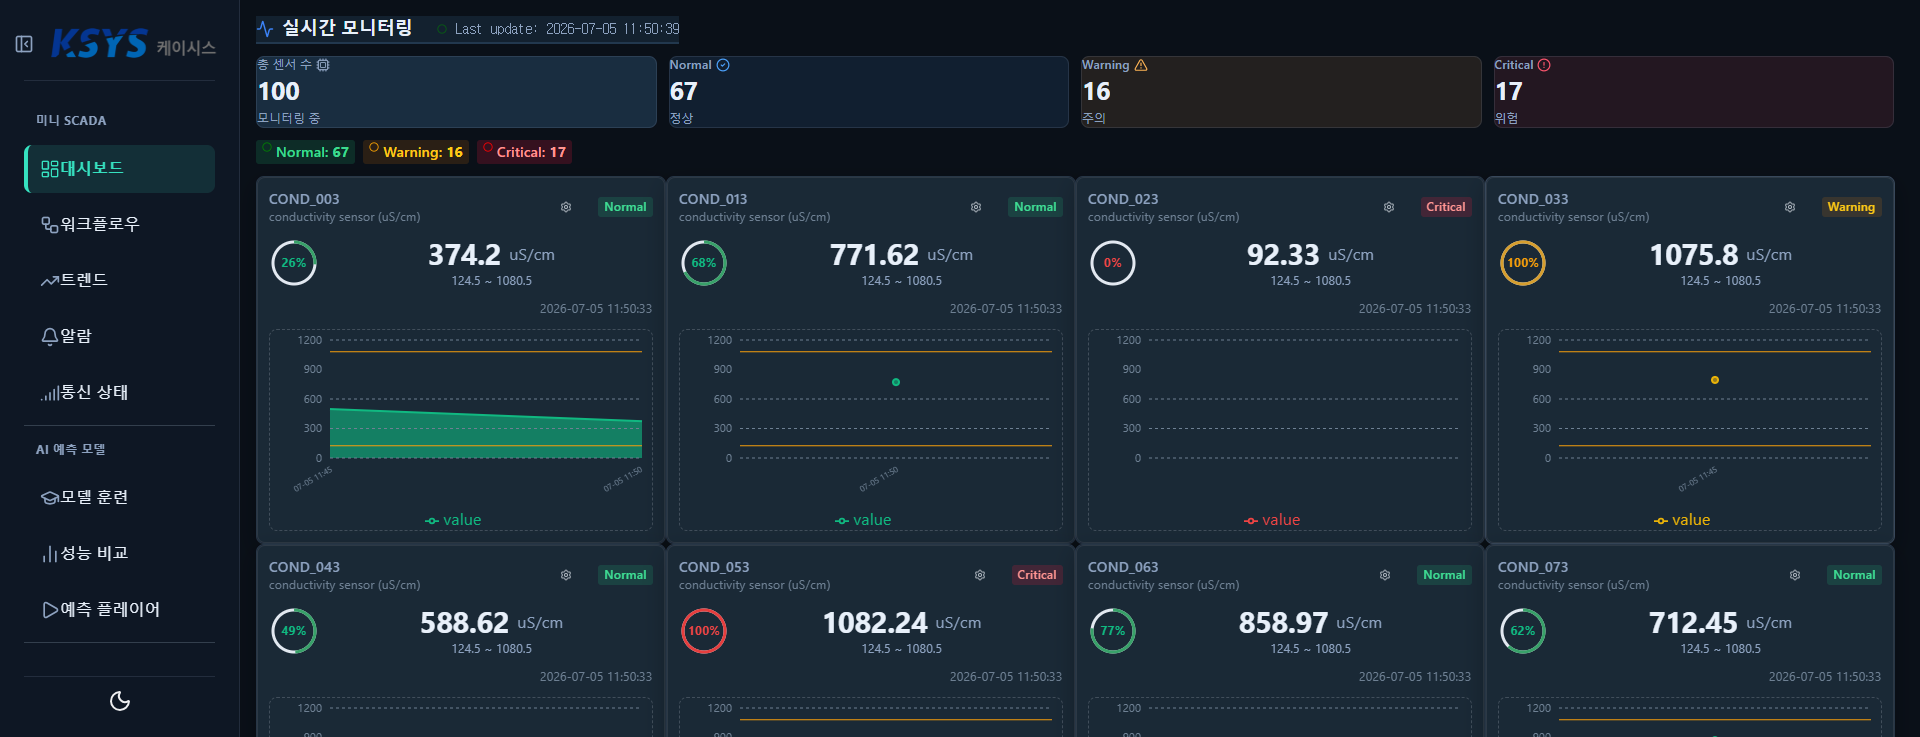
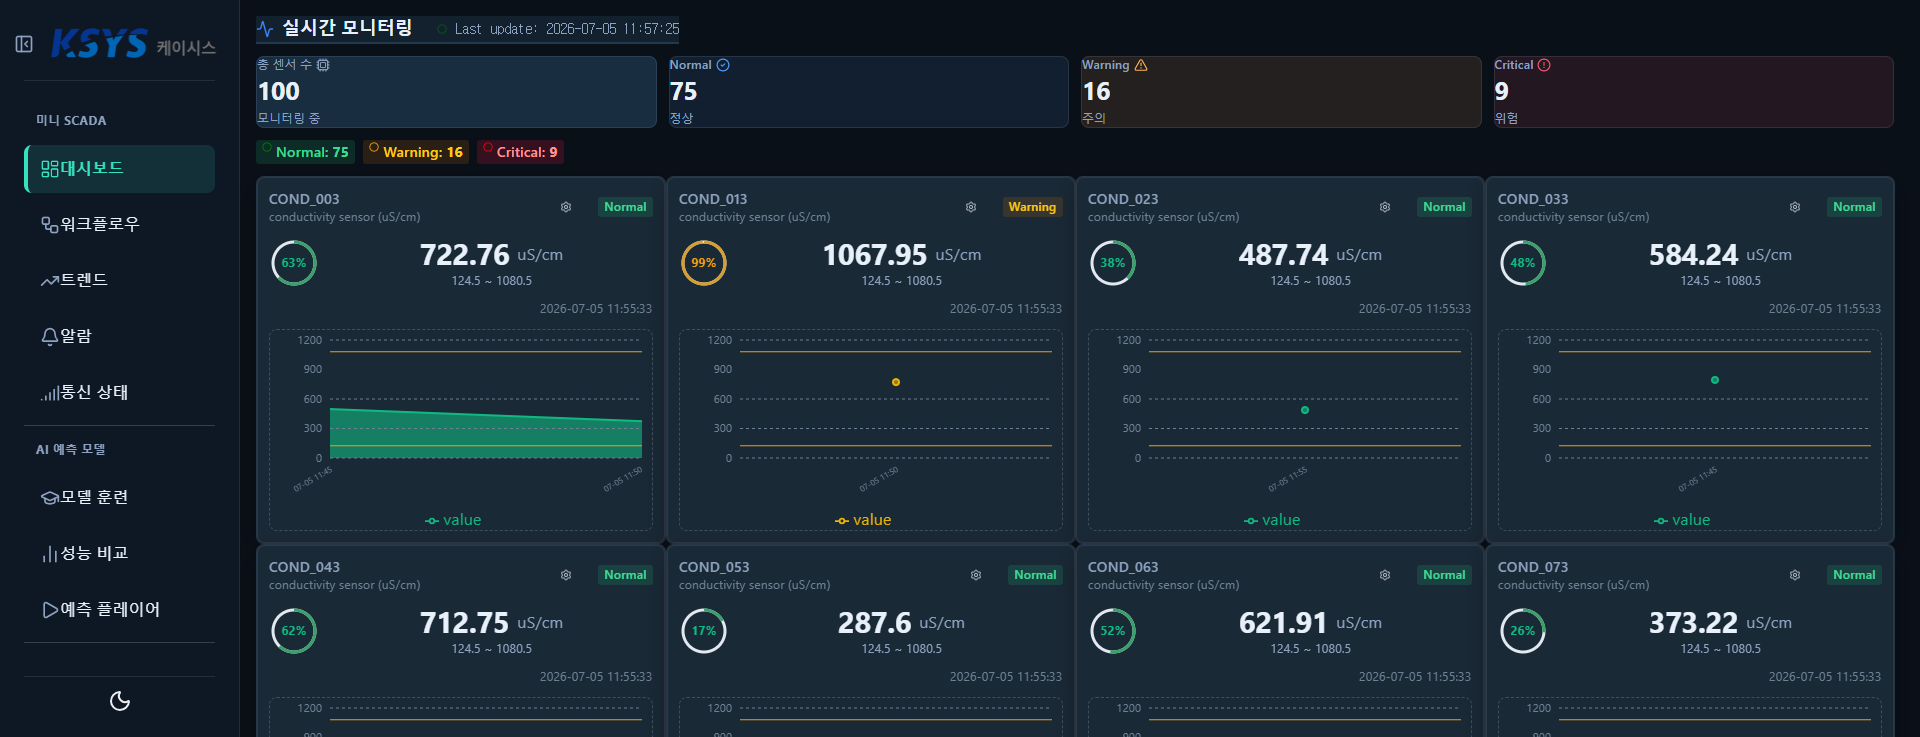
fix(design): Phase 1 라이트 stopgap 보강 — .radix-themes 리맵 스코프 + 다크 유틸 중화
- --ks-* 라이트 리맵이 html에만 걸려 .radix-themes 노드의 재선언(#0E1724)에
  가려짐 → html:not(.dark) .radix-themes 셀렉터 추가 (사이드바 라이트 복구 실측)
- 다크 하드코딩 Tailwind 유틸(bg-slate-800/900, bg-black, text-white 등)의
  라이트 미러 중화 블록 추가 — .dark 중화 블록과 대칭, Phase 2/3 이관 후 동반 제거
- PoC 스크린샷 최종본 교체 (라이트 셸 완성 상태)

known: 대시보드 '총 센서 수' KPI 카드는 인라인 hex 리터럴 다크 → Phase 3 대상

diff --git a/assets/styles.css b/assets/styles.css
@@ -60,8 +60,11 @@
 
 /* ponytail: Phase 1 stopgap — components still hardcode var(--ks-*) inline
    (sidebar, pills…). Remap the legacy names to light equivalents in light mode
-   so the app stays legible until Phase 2/3 migrates them to --am-*. */
-html:not(.dark) {
+   so the app stays legible until Phase 2/3 migrates them to --am-*.
+   NB: `.radix-themes` redeclares --ks-* on its own node, so the remap must
+   also win there — hence the second selector. */
+html:not(.dark),
+html:not(.dark) .radix-themes {
   --ks-ink:    var(--am-page);
   --ks-ink-2:  var(--am-header);
   --ks-panel:  var(--am-card);
@@ -143,6 +146,18 @@ html.dark, .dark body {
 .dark .border-red-200 { border-color: rgba(255,86,110,.30) !important; }
 .dark .border-amber-200, .dark .border-yellow-200, .dark .border-orange-200 { border-color: rgba(255,180,84,.30) !important; }
 .dark .border-green-200, .dark .border-emerald-200 { border-color: rgba(54,226,192,.30) !important; }
+
+/* ── light-only: neutralize hardcoded DARK Tailwind utilities (mirror of the
+   .dark block above — components like stat_card still ship bg-slate-800/
+   text-white; Phase 2/3 migrates them to --am-*, then both blocks go) ── */
+html:not(.dark) .bg-slate-800, html:not(.dark) .bg-slate-900,
+html:not(.dark) .bg-gray-800, html:not(.dark) .bg-gray-900,
+html:not(.dark) .bg-black { background-color: var(--am-card) !important; }
+html:not(.dark) .text-white { color: var(--am-text) !important; }
+html:not(.dark) .text-slate-300, html:not(.dark) .text-slate-400,
+html:not(.dark) .text-gray-300, html:not(.dark) .text-gray-400 { color: var(--am-muted) !important; }
+html:not(.dark) .border-slate-700, html:not(.dark) .border-slate-800,
+html:not(.dark) .border-gray-700 { border-color: var(--am-border-strong) !important; }
 
 /* ── scrollbars ── */
 ::-webkit-scrollbar { width: 10px; height: 10px; }
